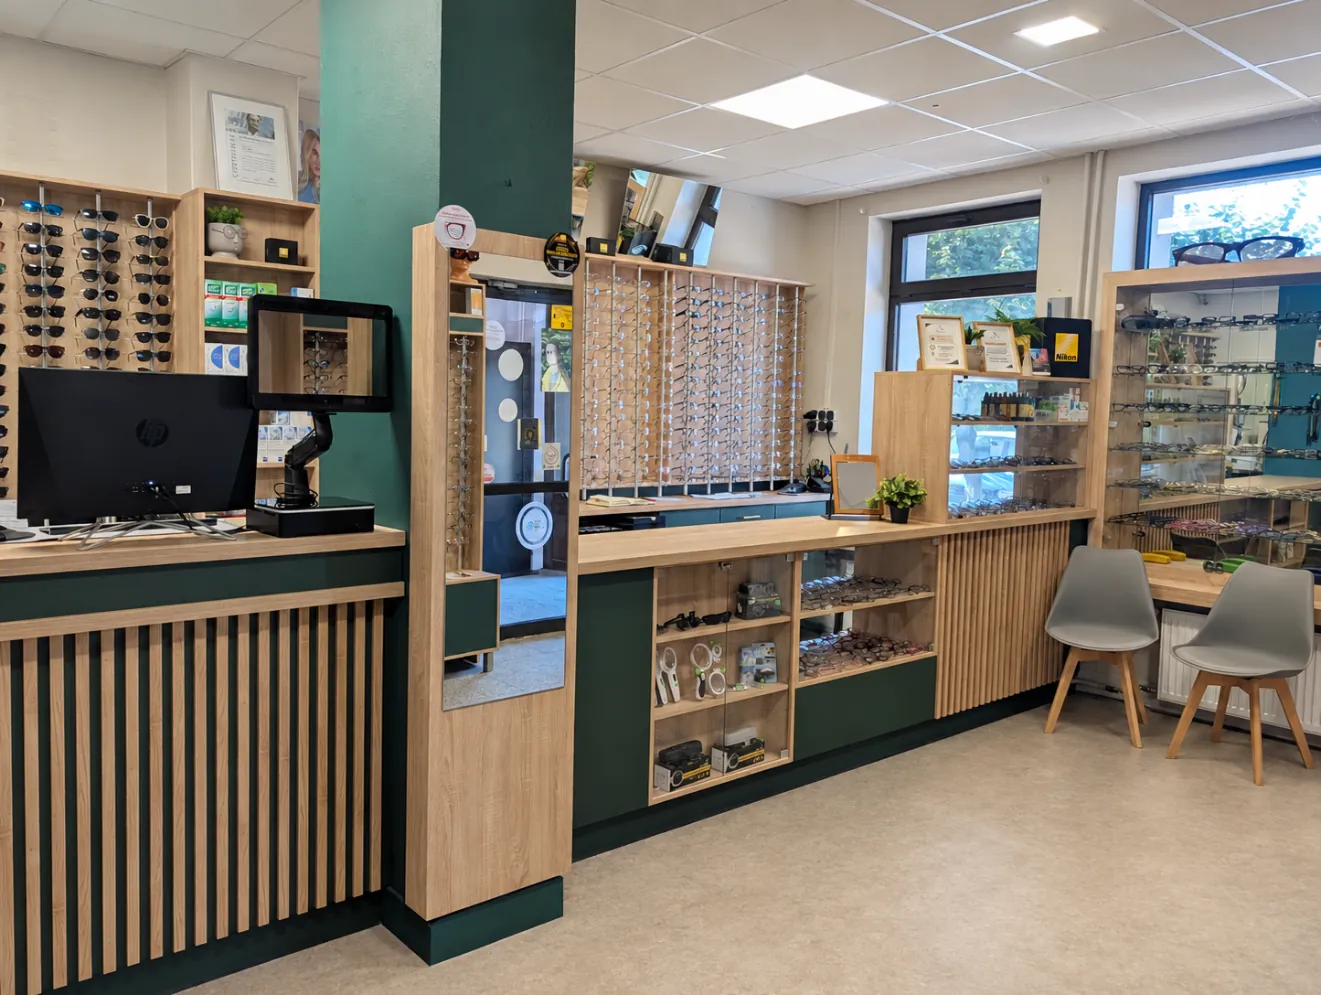
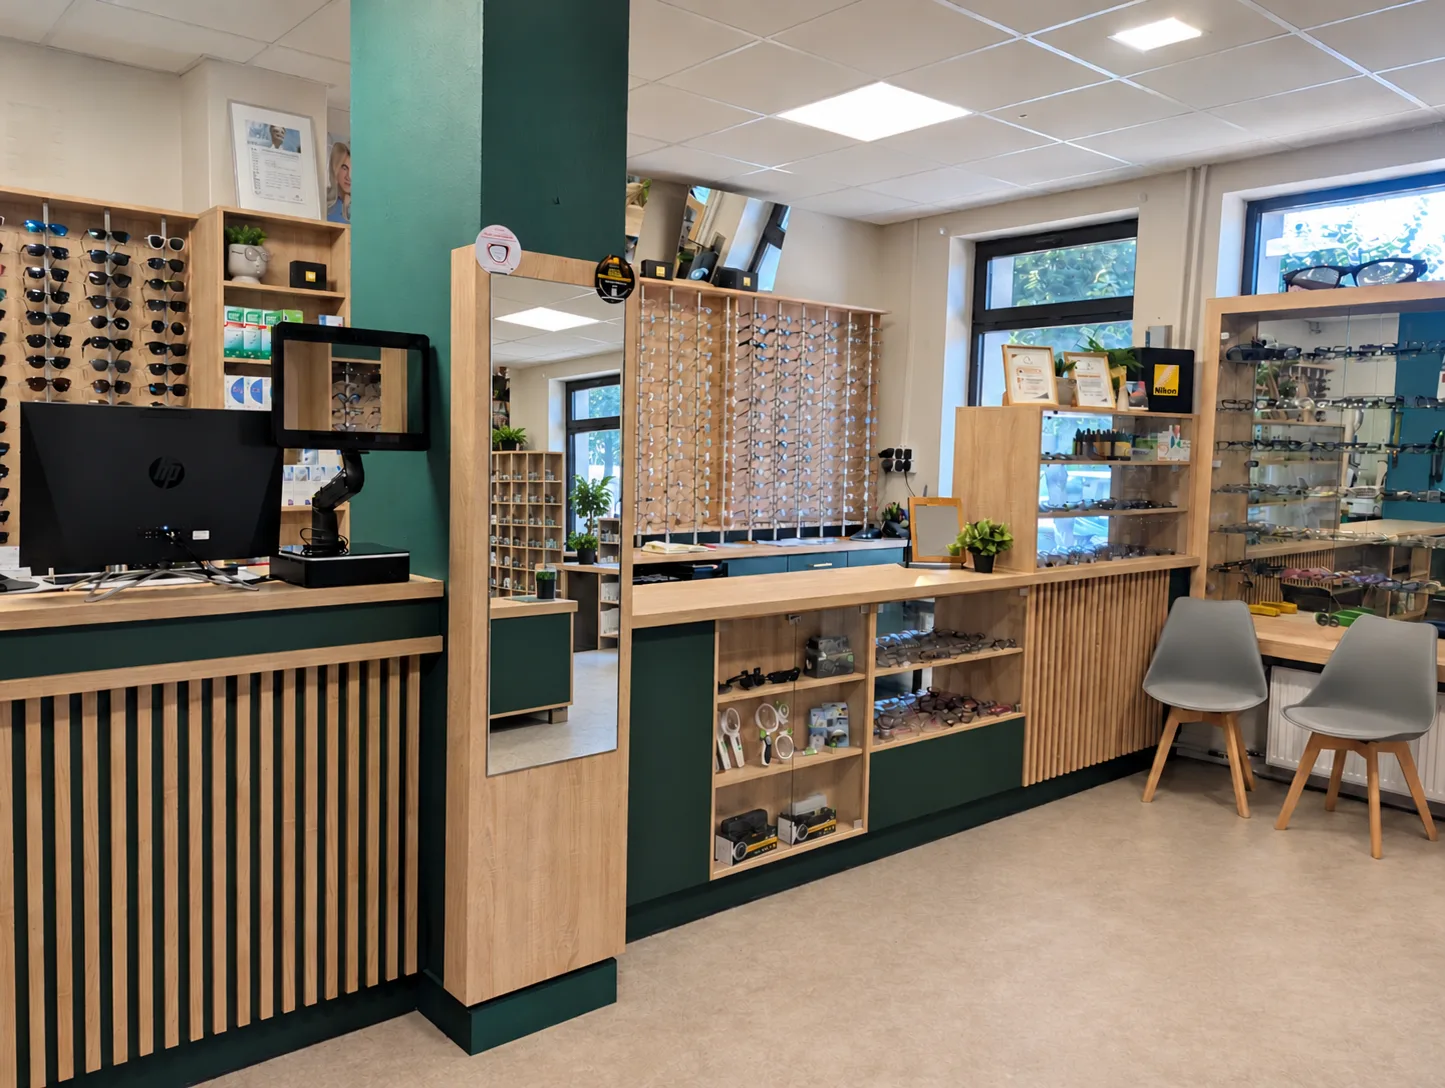
Prefiks +48 przy telefonach, nowe zdjęcie salonu, aktualizacja sitemap
- numery komórkowy i stacjonarne z +48 (tekst i linki tel:)
- img/salon-optyczny.webp i zrodla/salon-optyczny.png: nowe zdjęcie salonu
- width/height zdjęcia głównego dopasowane do 1445x1088
- sitemap.xml: nowe daty lastmod

diff --git a/index.html b/index.html
@@ -120,7 +120,7 @@
           "honorificPrefix": "dr n. med.",
           "jobTitle": "Lekarz okulista"
         },
-        "description": "Badanie wzroku po wcześniejszym umówieniu telefonicznym pod numerem 531 221 341.",
+        "description": "Badanie wzroku po wcześniejszym umówieniu telefonicznym pod numerem +48 531 221 341.",
         "telephone": "+48531221341",
         "address": {
           "@type": "PostalAddress",
@@ -174,7 +174,7 @@
           "name": "Czy trzeba umawiać badanie wzroku?",
           "acceptedAnswer": {
             "@type": "Answer",
-            "text": "Tak. Badania wzroku wykonujemy we wtorki w godz. 09:00–12:00 oraz w środy w godz. 14:00–17:00. Prosimy o wcześniejsze umówienie się na konkretną godzinę telefonicznie pod numerem 531 221 341."
+            "text": "Tak. Badania wzroku wykonujemy we wtorki w godz. 09:00–12:00 oraz w środy w godz. 14:00–17:00. Prosimy o wcześniejsze umówienie się na konkretną godzinę telefonicznie pod numerem +48 531 221 341."
           }
         },
         {
@@ -215,7 +215,7 @@
     <a href="/#kontakt">Kontakt</a>
   </div>
   <div class="nav-actions">
-    <a class="btn" href="tel:531221341">Umów wizytę</a>
+    <a class="btn" href="tel:+48531221341">Umów wizytę</a>
     <button class="menu-toggle" id="menuToggle" aria-label="Otwórz menu" aria-expanded="false">☰</button>
   </div>
 </div></nav>
@@ -227,11 +227,11 @@
     <h1><span class="eyebrow">Optyk i okulista w Dąbrowie Tarnowskiej</span>Dobre widzenie zaczyna się od dobrego wyboru</h1>
     <p>Profesjonalne badanie wzroku, okulary korekcyjne, soczewki kontaktowe i serwis okularów. Od prostych, przystępnych opraw po kolekcje renomowanych marek.</p>
     <div class="actions">
-      <a class="btn" href="tel:531221341">Zadzwoń: 531 221 341</a>
+      <a class="btn" href="tel:+48531221341">Zadzwoń: +48 531 221 341</a>
       <a class="btn alt" href="#oferta">Poznaj ofertę</a>
     </div>
   </div>
-  <div class="photo"><img src="img/salon-optyczny.webp" alt="Wnętrze salonu optycznego ARTEX przy Grunwaldzkiej 2 w Dąbrowie Tarnowskiej" width="1321" height="995" fetchpriority="high" decoding="async"></div>
+  <div class="photo"><img src="img/salon-optyczny.webp" alt="Wnętrze salonu optycznego ARTEX przy Grunwaldzkiej 2 w Dąbrowie Tarnowskiej" width="1445" height="1088" fetchpriority="high" decoding="async"></div>
 </div></header>
 
 <section id="oferta"><div class="wrap">
@@ -353,7 +353,7 @@
   </div>
   <div class="faq-item">
     <button class="faq-q" aria-expanded="false" aria-controls="faq-a1" id="faq-q1">Czy trzeba umawiać badanie wzroku?<span aria-hidden="true">+</span></button>
-    <div class="faq-a" id="faq-a1" role="region" aria-labelledby="faq-q1">Tak. Badania wzroku wykonujemy we wtorki w godz. 09:00–12:00 oraz w środy w godz. 14:00–17:00. Prosimy o wcześniejsze umówienie się na konkretną godzinę telefonicznie pod numerem 531 221 341.</div>
+    <div class="faq-a" id="faq-a1" role="region" aria-labelledby="faq-q1">Tak. Badania wzroku wykonujemy we wtorki w godz. 09:00–12:00 oraz w środy w godz. 14:00–17:00. Prosimy o wcześniejsze umówienie się na konkretną godzinę telefonicznie pod numerem +48 531 221 341.</div>
   </div>
   <div class="faq-item">
     <button class="faq-q" aria-expanded="false" aria-controls="faq-a2" id="faq-q2">Czy wykonywane są okulary przeciwsłoneczne z korekcją?<span aria-hidden="true">+</span></button>
@@ -375,7 +375,7 @@
       </div>
       <div class="contact-tile">
         <h3>Telefon</h3>
-        <p><a href="tel:531221341">531 221 341</a><br><a href="tel:146423305">14 642 33 05</a><br><a href="tel:146424159">14 642 41 59</a></p>
+        <p><a href="tel:+48531221341">+48 531 221 341</a><br><a href="tel:+48146423305">+48 14 642 33 05</a><br><a href="tel:+48146424159">+48 14 642 41 59</a></p>
       </div>
       <div class="contact-tile">
         <h3>Godziny otwarcia</h3>
@@ -392,11 +392,11 @@
           <li><span>Wtorek</span><span>09:00–12:00</span></li>
           <li><span>Środa</span><span>14:00–17:00</span></li>
         </ul>
-        <p class="tile-note">Na badanie prosimy umówić się telefonicznie: 531 221 341.</p>
+        <p class="tile-note">Na badanie prosimy umówić się telefonicznie: +48 531 221 341.</p>
       </div>
     </div>
     <p class="contact-area">Zapraszamy pacjentów z Dąbrowy Tarnowskiej i okolic — m.in. ze Szczucina, Bolesławia, Olesna, Radgoszczy, Mędrzechowa i Gręboszowa.</p>
-    <a class="btn contact-call" href="tel:531221341">Zadzwoń teraz</a>
+    <a class="btn contact-call" href="tel:+48531221341">Zadzwoń teraz</a>
   </div>
   <div class="map-embed"><iframe src="https://www.google.com/maps/embed?pb=!1m18!1m12!1m3!1d3463.5591225397366!2d20.984419100000004!3d50.175194999999995!2m3!1f0!2f0!3f0!3m2!1i1024!2i768!4f13.1!3m3!1m2!1s0x473d7f13b22c8687%3A0x9c35d5a77ed91a1c!2s%22ARTEX%22%20Zak%C5%82ad%20Optyczny!5e1!3m2!1spl!2spl!4v1786120829022!5m2!1spl!2spl" allowfullscreen="" loading="lazy" referrerpolicy="strict-origin-when-cross-origin" title="Mapa – salon ARTEX Zakład Optyczny, Grunwaldzka 2, Dąbrowa Tarnowska"></iframe></div>
 </div></section>

diff --git a/badanie-wzroku.html b/badanie-wzroku.html
@@ -4,7 +4,7 @@
 <meta charset="utf-8">
 <meta name="viewport" content="width=device-width,initial-scale=1">
 <title>Okulista Dąbrowa Tarnowska — badanie wzroku | ARTEX</title>
-<meta name="description" content="Badanie wzroku u okulisty dr. n. med. Witolda Tarkowskiego, Grunwaldzka 2. Wtorki 9–12, środy 14–17, zapisy: 531 221 341. Okulary dobierzesz na miejscu.">
+<meta name="description" content="Badanie wzroku u okulisty dr. n. med. Witolda Tarkowskiego, Grunwaldzka 2. Wtorki 9–12, środy 14–17, zapisy: +48 531 221 341. Okulary dobierzesz na miejscu.">
 <link rel="canonical" href="https://optyk-artex.pl/badanie-wzroku">
 <meta name="theme-color" content="#294f3d">
 <link rel="icon" href="favicon.png" type="image/png" sizes="96x96">
@@ -14,7 +14,7 @@
 <meta property="og:locale" content="pl_PL">
 <meta property="og:site_name" content="ARTEX Zakład Optyczny">
 <meta property="og:title" content="Okulista Dąbrowa Tarnowska — badanie wzroku | ARTEX">
-<meta property="og:description" content="Badanie wzroku u okulisty dr. n. med. Witolda Tarkowskiego, Grunwaldzka 2. Wtorki 9–12, środy 14–17, zapisy: 531 221 341. Okulary dobierzesz na miejscu.">
+<meta property="og:description" content="Badanie wzroku u okulisty dr. n. med. Witolda Tarkowskiego, Grunwaldzka 2. Wtorki 9–12, środy 14–17, zapisy: +48 531 221 341. Okulary dobierzesz na miejscu.">
 <meta property="og:url" content="https://optyk-artex.pl/badanie-wzroku">
 <meta property="og:image" content="https://optyk-artex.pl/img/og-artex.jpg">
 <meta property="og:image:width" content="1200">
@@ -53,7 +53,7 @@
           "name": "W jakich godzinach przyjmuje okulista w Dąbrowie Tarnowskiej?",
           "acceptedAnswer": {
             "@type": "Answer",
-            "text": "Gabinet okulistyczny przyjmuje we wtorki w godzinach 09:00–12:00 oraz w środy w godzinach 14:00–17:00, po wcześniejszym umówieniu telefonicznym pod numerem 531 221 341."
+            "text": "Gabinet okulistyczny przyjmuje we wtorki w godzinach 09:00–12:00 oraz w środy w godzinach 14:00–17:00, po wcześniejszym umówieniu telefonicznym pod numerem +48 531 221 341."
           }
         },
         {
@@ -86,7 +86,7 @@
     <a href="/#kontakt">Kontakt</a>
   </div>
   <div class="nav-actions">
-    <a class="btn" href="tel:531221341">Umów wizytę</a>
+    <a class="btn" href="tel:+48531221341">Umów wizytę</a>
     <button class="menu-toggle" id="menuToggle" aria-label="Otwórz menu" aria-expanded="false">☰</button>
   </div>
 </div></nav>
@@ -98,7 +98,7 @@
     <div class="eyebrow">Gabinet Okulistyczny dr&nbsp;n.&nbsp;med. Witold Tarkowski</div>
     <h1>Okulista i&nbsp;badanie wzroku w&nbsp;Dąbrowie Tarnowskiej</h1>
     <div class="actions">
-      <a class="btn" href="tel:531221341">Zarejestruj się: 531 221 341</a>
+      <a class="btn" href="tel:+48531221341">Zarejestruj się: +48 531 221 341</a>
       <a class="btn alt" href="#przebieg">Jak wygląda badanie</a>
     </div>
   </div>
@@ -122,7 +122,7 @@
     </article>
     <article>
       <h3>Rejestracja</h3>
-      <p><a href="tel:531221341" style="color:var(--g);font-weight:700">531 221 341</a><br><a href="tel:146423305" style="color:var(--g);font-weight:700">14 642 33 05</a><br>lub osobiście w salonie.</p>
+      <p><a href="tel:+48531221341" style="color:var(--g);font-weight:700">+48 531 221 341</a><br><a href="tel:+48146423305" style="color:var(--g);font-weight:700">+48 14 642 33 05</a><br>lub osobiście w salonie.</p>
     </article>
     <article>
       <h3>Salon optyczny</h3>
@@ -197,7 +197,7 @@
   </div>
   <div class="faq-item">
     <button class="faq-q" aria-expanded="false" aria-controls="bw-a2" id="bw-q2">W jakich godzinach przyjmuje okulista?<span aria-hidden="true">+</span></button>
-    <div class="faq-a" id="bw-a2" role="region" aria-labelledby="bw-q2">Gabinet okulistyczny przyjmuje we wtorki w godzinach 09:00–12:00 oraz w środy w godzinach 14:00–17:00, po wcześniejszym umówieniu telefonicznym pod numerem 531 221 341.</div>
+    <div class="faq-a" id="bw-a2" role="region" aria-labelledby="bw-q2">Gabinet okulistyczny przyjmuje we wtorki w godzinach 09:00–12:00 oraz w środy w godzinach 14:00–17:00, po wcześniejszym umówieniu telefonicznym pod numerem +48 531 221 341.</div>
   </div>
   <div class="faq-item">
     <button class="faq-q" aria-expanded="false" aria-controls="bw-a3" id="bw-q3">Czy po badaniu można od razu zamówić okulary?<span aria-hidden="true">+</span></button>
@@ -212,7 +212,7 @@
     <p style="color:#e7f0ea">Na badanie prosimy o wcześniejsze umówienie się na konkretną godzinę. Rejestracja telefoniczna lub osobiście w salonie przy Grunwaldzkiej 2.</p>
   </div>
   <div class="actions">
-    <a class="btn" style="background:white;color:var(--g)" href="tel:531221341">Zadzwoń: 531 221 341</a>
+    <a class="btn" style="background:white;color:var(--g)" href="tel:+48531221341">Zadzwoń: +48 531 221 341</a>
     <a class="btn alt" style="border-color:#fff;color:#fff" href="/#kontakt">Zobacz dojazd i mapę</a>
   </div>
 </div></section>

diff --git a/soczewki.html b/soczewki.html
@@ -101,7 +101,7 @@
     <a href="/#kontakt">Kontakt</a>
   </div>
   <div class="nav-actions">
-    <a class="btn" href="tel:531221341">Umów wizytę</a>
+    <a class="btn" href="tel:+48531221341">Umów wizytę</a>
     <button class="menu-toggle" id="menuToggle" aria-label="Otwórz menu" aria-expanded="false">☰</button>
   </div>
 </div></nav>
@@ -115,7 +115,7 @@
     <p>Soczewki Transitions automatycznie przyciemniają się w słońcu i wracają do przezroczystości w pomieszczeniu. Zanim zdecydujesz się na zakup, możesz zobaczyć, jak działają — w wirtualnej przymierzalni producenta.</p>
     <div class="actions">
       <a class="btn" href="https://www.transitions.com/pl/wirtualna-przymierzalnia/" target="_blank" rel="noopener noreferrer">Otwórz wirtualną przymierzalnię</a>
-      <a class="btn alt" href="tel:531221341">Zadzwoń: 531 221 341</a>
+      <a class="btn alt" href="tel:+48531221341">Zadzwoń: +48 531 221 341</a>
     </div>
   </div>
   <div class="photo"><img src="img/soczewki-fotochromowe-transitions.webp" alt="Soczewki fotochromowe Transitions w oprawie okularowej" width="776" height="646" fetchpriority="high" decoding="async" style="object-position:88% 45%"></div>
@@ -172,7 +172,7 @@
       </div>
       <div class="contact-tile">
         <h3>Telefon</h3>
-        <p><a href="tel:531221341">531 221 341</a><br><a href="tel:146423305">14 642 33 05</a><br><a href="tel:146424159">14 642 41 59</a></p>
+        <p><a href="tel:+48531221341">+48 531 221 341</a><br><a href="tel:+48146423305">+48 14 642 33 05</a><br><a href="tel:+48146424159">+48 14 642 41 59</a></p>
       </div>
       <div class="contact-tile">
         <h3>Godziny otwarcia</h3>
@@ -189,11 +189,11 @@
           <li><span>Wtorek</span><span>09:00–12:00</span></li>
           <li><span>Środa</span><span>14:00–17:00</span></li>
         </ul>
-        <p class="tile-note">Na badanie prosimy umówić się telefonicznie: 531 221 341.</p>
+        <p class="tile-note">Na badanie prosimy umówić się telefonicznie: +48 531 221 341.</p>
       </div>
     </div>
     <p class="contact-area">Zapraszamy pacjentów z Dąbrowy Tarnowskiej i okolic — m.in. ze Szczucina, Bolesławia, Olesna, Radgoszczy, Mędrzechowa i Gręboszowa.</p>
-    <a class="btn contact-call" href="tel:531221341">Zadzwoń teraz</a>
+    <a class="btn contact-call" href="tel:+48531221341">Zadzwoń teraz</a>
   </div>
   <div class="map-embed"><iframe src="https://www.google.com/maps/embed?pb=!1m18!1m12!1m3!1d3463.5591225397366!2d20.984419100000004!3d50.175194999999995!2m3!1f0!2f0!3f0!3m2!1i1024!2i768!4f13.1!3m3!1m2!1s0x473d7f13b22c8687%3A0x9c35d5a77ed91a1c!2s%22ARTEX%22%20Zak%C5%82ad%20Optyczny!5e1!3m2!1spl!2spl!4v1786120829022!5m2!1spl!2spl" allowfullscreen="" loading="lazy" referrerpolicy="strict-origin-when-cross-origin" title="Mapa – salon ARTEX Zakład Optyczny, Grunwaldzka 2, Dąbrowa Tarnowska"></iframe></div>
 </div></section>

diff --git a/404.html b/404.html
@@ -4,7 +4,7 @@
 <meta charset="utf-8">
 <meta name="viewport" content="width=device-width,initial-scale=1">
 <title>Nie znaleziono strony — ARTEX Zakład Optyczny</title>
-<meta name="description" content="Podana strona nie istnieje. Wróć na stronę główną salonu ARTEX w Dąbrowie Tarnowskiej lub zadzwoń: 531 221 341.">
+<meta name="description" content="Podana strona nie istnieje. Wróć na stronę główną salonu ARTEX w Dąbrowie Tarnowskiej lub zadzwoń: +48 531 221 341.">
 <meta name="robots" content="noindex,follow">
 <meta name="theme-color" content="#294f3d">
 <link rel="icon" href="favicon.png" type="image/png" sizes="96x96">
@@ -29,7 +29,7 @@
     <a href="/#kontakt">Kontakt</a>
   </div>
   <div class="nav-actions">
-    <a class="btn" href="tel:531221341">Umów wizytę</a>
+    <a class="btn" href="tel:+48531221341">Umów wizytę</a>
     <button class="menu-toggle" id="menuToggle" aria-label="Otwórz menu" aria-expanded="false">☰</button>
   </div>
 </div></nav>
@@ -43,7 +43,7 @@
     <p>Adres mógł się zmienić albo zawierać literówkę. Poniżej znajdziesz to, czego najczęściej szukają nasi klienci — a jeśli wolisz zapytać od razu, po prostu zadzwoń.</p>
     <div class="actions">
       <a class="btn" href="/">Wróć na stronę główną</a>
-      <a class="btn alt" href="tel:531221341">Zadzwoń: 531 221 341</a>
+      <a class="btn alt" href="tel:+48531221341">Zadzwoń: +48 531 221 341</a>
     </div>
   </div>
 </div></header>
@@ -76,7 +76,7 @@
     <p><b>F.H.U. „Artex” Zakład Optyczny</b><br>
     Grunwaldzka 2, 33-200 Dąbrowa Tarnowska</p>
     <p>Salon czynny: poniedziałek–piątek 08:00–17:00, sobota 08:00–12:00<br>
-    Telefon: <a href="tel:531221341">531 221 341</a></p>
+    Telefon: <a href="tel:+48531221341">+48 531 221 341</a></p>
   </div>
 </div></section>
 

diff --git a/moda.html b/moda.html
@@ -101,7 +101,7 @@
     <a href="/#kontakt">Kontakt</a>
   </div>
   <div class="nav-actions">
-    <a class="btn" href="tel:531221341">Umów wizytę</a>
+    <a class="btn" href="tel:+48531221341">Umów wizytę</a>
     <button class="menu-toggle" id="menuToggle" aria-label="Otwórz menu" aria-expanded="false">☰</button>
   </div>
 </div></nav>
@@ -114,11 +114,11 @@
     <h1>Okulary, które są też dodatkiem do stylu.</h1>
     <p>Dla klientów, dla których oprawy to nie tylko korekcja wzroku, ale też element stylizacji — w salonie ARTEX znajdziesz kolekcje znanych marek modowych.</p>
     <div class="actions">
-      <a class="btn" href="tel:531221341">Zadzwoń: 531 221 341</a>
+      <a class="btn" href="tel:+48531221341">Zadzwoń: +48 531 221 341</a>
       <a class="btn alt" href="/#oprawy">Zobacz pełną ofertę opraw</a>
     </div>
   </div>
-  <div class="photo"><img src="img/salon-optyczny.webp" alt="Ekspozycja markowych opraw w salonie optycznym ARTEX" width="1321" height="995" fetchpriority="high" decoding="async"></div>
+  <div class="photo"><img src="img/salon-optyczny.webp" alt="Ekspozycja markowych opraw w salonie optycznym ARTEX" width="1445" height="1088" fetchpriority="high" decoding="async"></div>
 </div></header>
 
 <section><div class="wrap">
@@ -159,7 +159,7 @@
       <li>możliwość zamówienia szkieł korekcyjnych do każdej oprawy</li>
       <li>serwis i regulacja po zakupie</li>
     </ul>
-    <a class="btn" style="margin-top:12px" href="tel:531221341">Umów się na przymiarkę</a>
+    <a class="btn" style="margin-top:12px" href="tel:+48531221341">Umów się na przymiarkę</a>
   </div>
 </div></section>
 

diff --git a/polityka-cookies.html b/polityka-cookies.html
@@ -41,7 +41,7 @@
     <a href="/#kontakt">Kontakt</a>
   </div>
   <div class="nav-actions">
-    <a class="btn" href="tel:531221341">Umów wizytę</a>
+    <a class="btn" href="tel:+48531221341">Umów wizytę</a>
     <button class="menu-toggle" id="menuToggle" aria-label="Otwórz menu" aria-expanded="false">☰</button>
   </div>
 </div></nav>
@@ -89,7 +89,7 @@
     Grunwaldzka 2, 33-200 Dąbrowa Tarnowska<br>
     NIP: 8731335825<br>
     E-mail: <a href="mailto:artexzakladoptyczny@gmail.com" style="color:var(--g);font-weight:700">artexzakladoptyczny@gmail.com</a><br>
-    Telefon: <a href="tel:531221341" style="color:var(--g);font-weight:700">531 221 341</a>
+    Telefon: <a href="tel:+48531221341" style="color:var(--g);font-weight:700">+48 531 221 341</a>
   </p>
 
   <p>Więcej informacji o przetwarzaniu danych osobowych znajduje się w <a href="/polityka-prywatnosci" style="color:var(--g);font-weight:700">Polityce prywatności</a>.</p>

diff --git a/polityka-prywatnosci.html b/polityka-prywatnosci.html
@@ -41,7 +41,7 @@
     <a href="/#kontakt">Kontakt</a>
   </div>
   <div class="nav-actions">
-    <a class="btn" href="tel:531221341">Umów wizytę</a>
+    <a class="btn" href="tel:+48531221341">Umów wizytę</a>
     <button class="menu-toggle" id="menuToggle" aria-label="Otwórz menu" aria-expanded="false">☰</button>
   </div>
 </div></nav>
@@ -115,7 +115,7 @@
     Grunwaldzka 2, 33-200 Dąbrowa Tarnowska<br>
     NIP: 8731335825<br>
     E-mail: <a href="mailto:artexzakladoptyczny@gmail.com" style="color:var(--g);font-weight:700">artexzakladoptyczny@gmail.com</a><br>
-    Telefon: <a href="tel:531221341" style="color:var(--g);font-weight:700">531 221 341</a>
+    Telefon: <a href="tel:+48531221341" style="color:var(--g);font-weight:700">+48 531 221 341</a>
   </p>
 
 </div></section>
